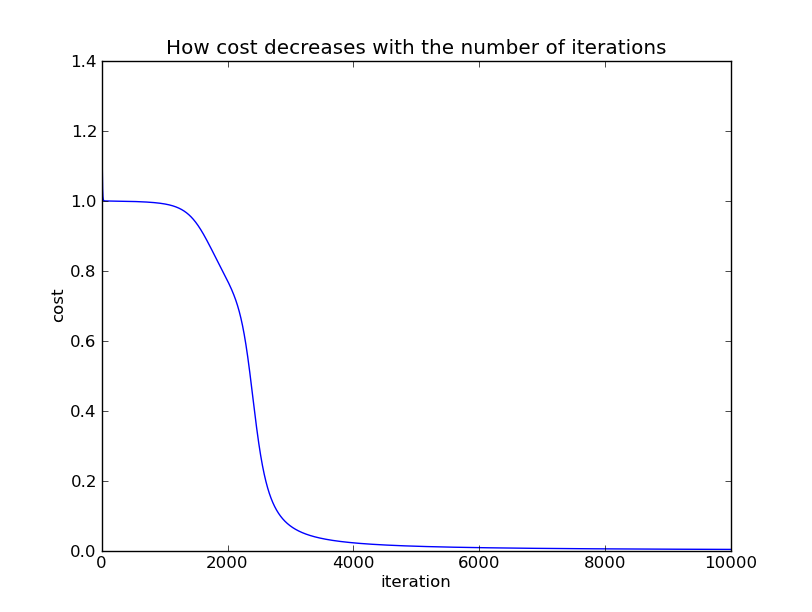
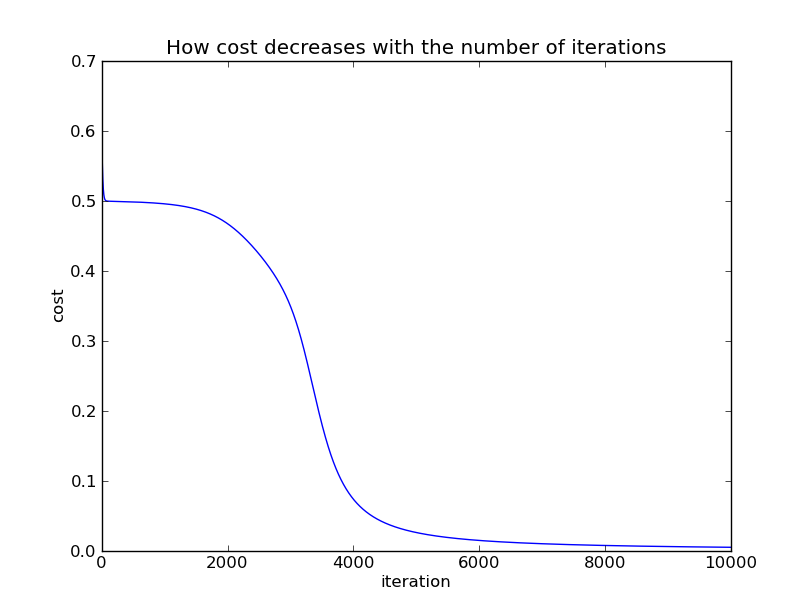
Minor improvements to gradient_descent_hack

diff --git a/code/backprop.py b/code/backprop.py
@@ -98,12 +98,14 @@ class Network():
             x = sigmoid_vec(np.dot(weight_matrix, x)+biases)
         return x
 
-    def backprop(self, training_data, eta=0.1, testing=False):
+    def backprop(self, training_data, eta=0.1, 
+                 regularization=0.01, testing=False):
         """Update the network's weights and biases by applying a
         single iteration of gradient descent using backpropagation.
         The ``training_data`` is a list of tuples ``(x, y)`` and `eta`
-        is the learning rate.  The flag ``testing`` determines whether
-        or not gradient checking is done."""
+        is the learning rate.  The variable ``regularization`` is the
+        value of the regularization paremeter.  The flag ``testing``
+        determines whether or not gradient checking is done."""
         nabla = [np.zeros(wt.shape) for wt in self.weights]
         nabla_b = [np.zeros(b.shape) for b in self.biases]
         for x, y in training_data:
@@ -132,6 +134,7 @@ class Network():
                 cumulative = np.dot(
                     np.transpose(self.weights[-l])*spv.reshape(len(z)), 
                     cumulative)
+        nabla = [n+regularization*wt for n, wt in zip(nabla, self.weights)]
         self.weights = [wt-eta*n for wt, n in zip(self.weights, nabla)]
         self.biases = [b-eta*nb for b, nb in zip(self.biases, nabla_b)]
         if testing:
@@ -164,9 +167,12 @@ class Network():
         net2.weights[j][(l, k)] -= delta
         return (net1.cost(activation, y)-net2.cost(activation, y))/(2*delta)
 
-    def error(self, training_data):
-        return sum(euclidean_error(self.feedforward(x)-y) 
+    def error(self, training_data, regularization=0.01):
+        training_error = sum(euclidean_error(self.feedforward(x)-y) 
                    for x, y in training_data)
+        regularization_error = regularization * sum(
+            np.sum(wt*wt) for wt in self.weights)/2.0
+        return training_error+regularization_error
 
 #### Miscellaneous functions
 def sigmoid(z):
@@ -198,8 +204,8 @@ def neural_network_classifier():
     training_data = zip(inputs, results)
     net = Network([784, 10])
     for j in xrange(10):
-        print net.error(training_data)
-        net.backprop(training_data)
+        print net.error(training_data, regularization=0.001)
+        net.backprop(training_data, eta=0.1, regularization=0.001)
 
 #### Testing
 
@@ -207,9 +213,9 @@ def test_backprop(n):
     net = Network([2, 2, 1])
     training_data = test_harness_training_data()
     for j in xrange(n):
-        net.backprop(test_harness_training_data())
+        net.backprop(test_harness_training_data(), eta=0.1, regularization=0.0001)
         error = sum((net.feedforward(x)-y)**2/2 for x, y in training_data)
-        print error
+        print net.error(training_data, 0.0001)
     return net
 
 def test_feedforward():

diff --git a/code/gradient_descent_hack.py b/code/gradient_descent_hack.py
@@ -31,13 +31,14 @@ def h(w, x):
     neuron2_out = neuron(w[3:6], x) # bottom left neuron
     return neuron(w[6:9], np.array([neuron1_out, neuron2_out]))
 
+# inputs and corresponding outputs for the function we're computing (XOR)
+INPUTS = [[0.0, 0.0], [0.0, 1.0], [1.0, 0.0], [1.0, 1.0]] 
+OUTPUTS = [0.0, 1.0, 1.0, 0.0]
+
 def cost(w):
     """ Return the cost when the neural network has weights ``w``.
     The cost is computed with respect to the XOR function."""
-    # inputs are converted to arrays in the last line of the function
-    inputs = [[0.0, 0.0], [0.0, 1.0], [1.0, 0.0], [1.0, 1.0]] 
-    outputs = [0.0, 1.0, 1.0, 0.0] # corresponding outputs for XOR
-    return sum((y-h(w, np.array(x)))**2 for x, y in zip(inputs, outputs))
+    return 0.5 * sum((y-h(w, np.array(x)))**2 for x, y in zip(INPUTS, OUTPUTS))
 
 def partial(f, k, w):
     """ Return the partial derivative of the function ``f`` with
